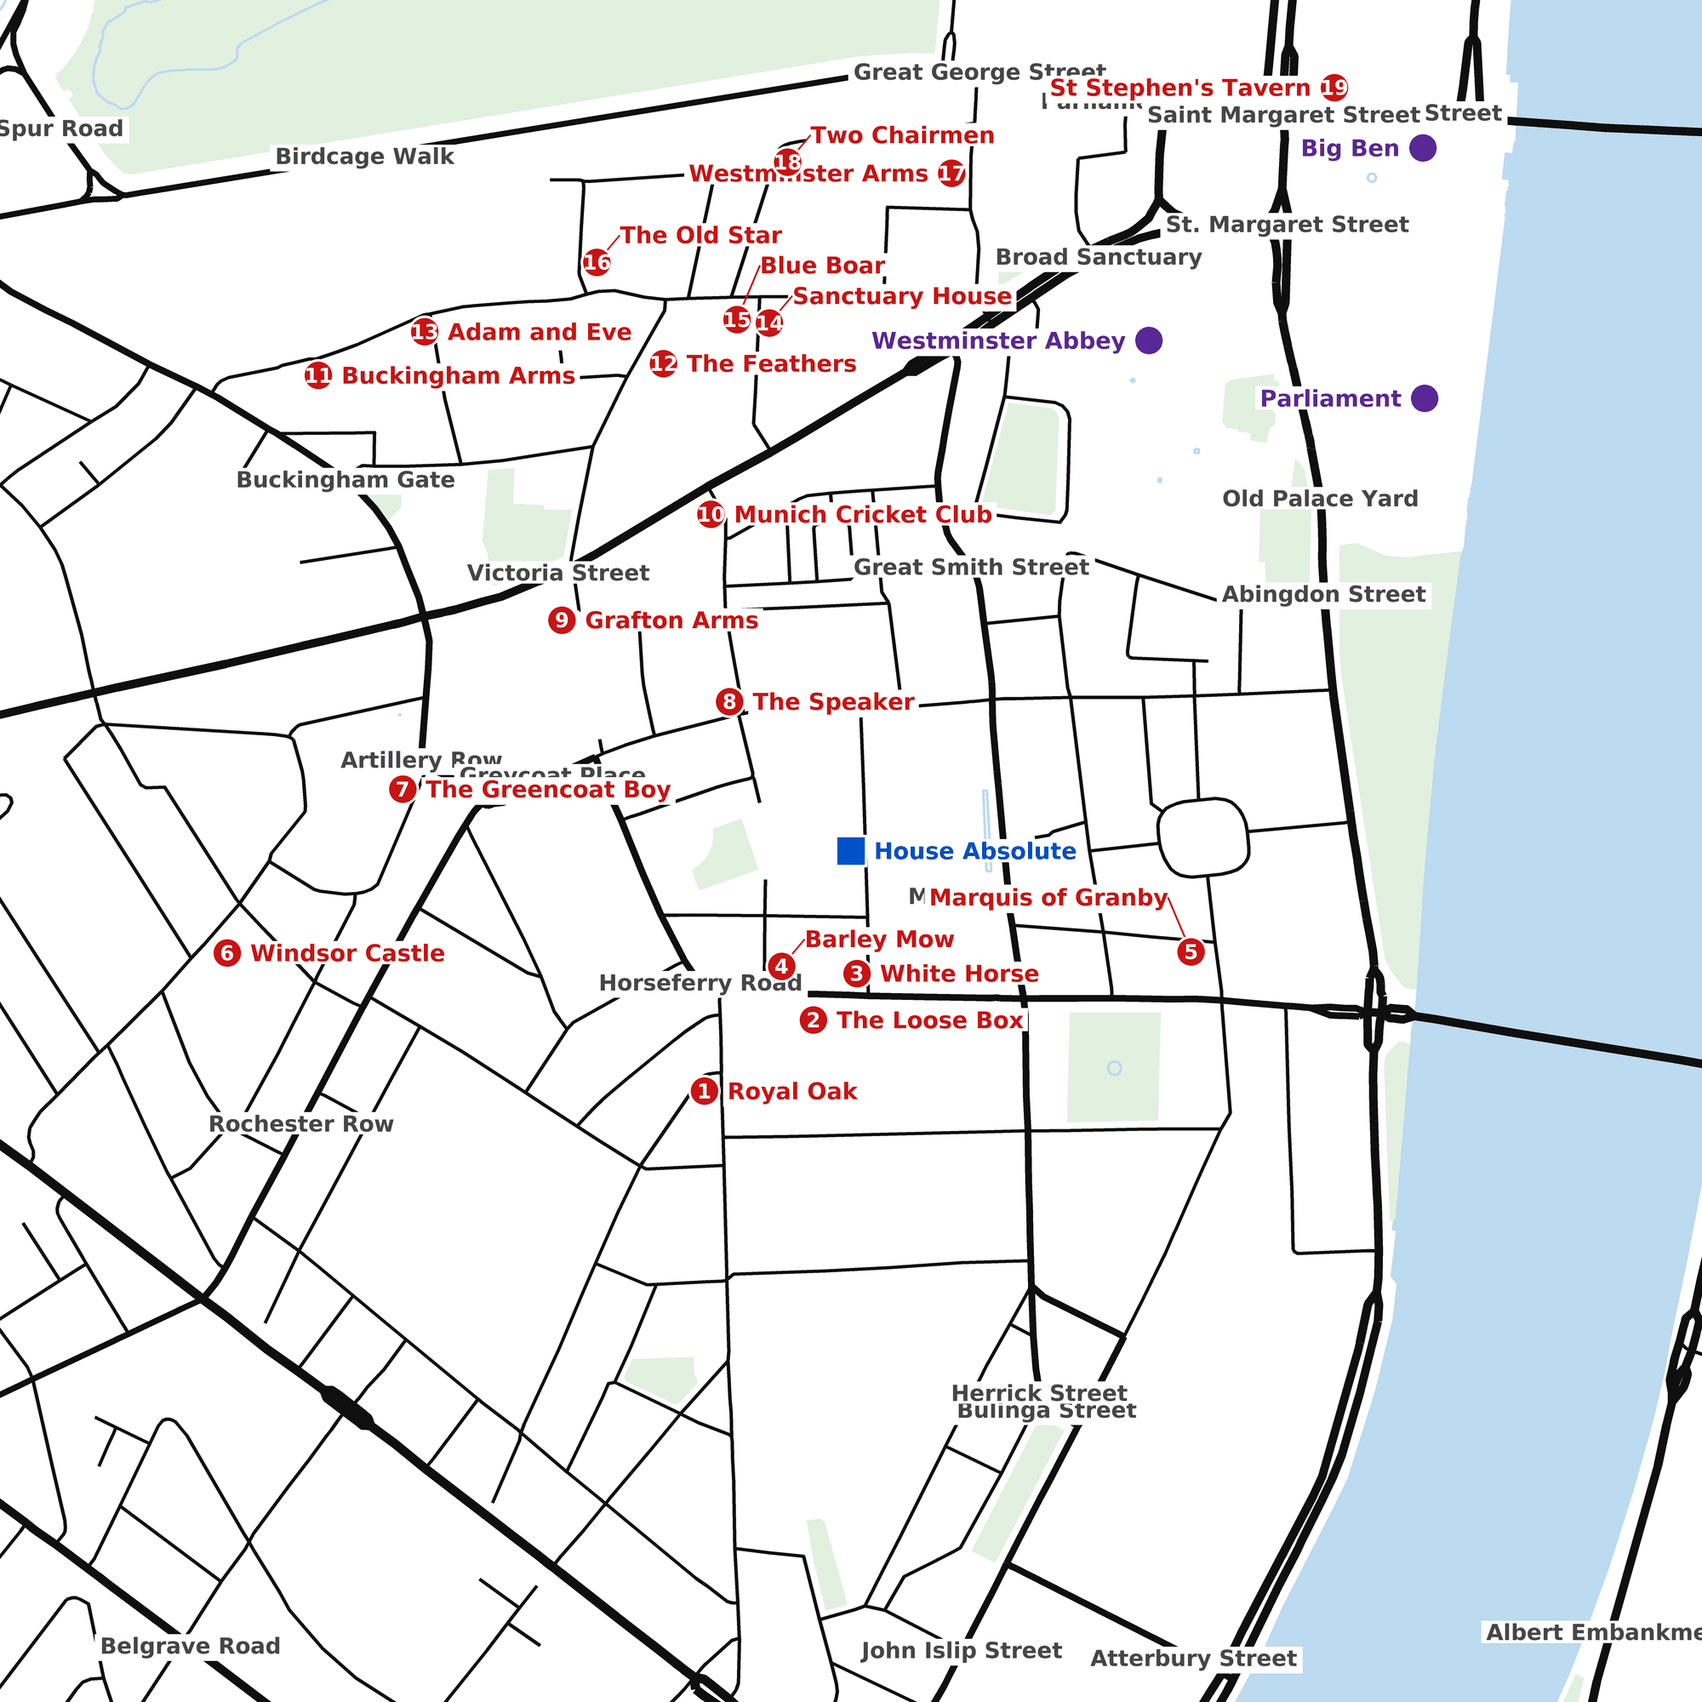
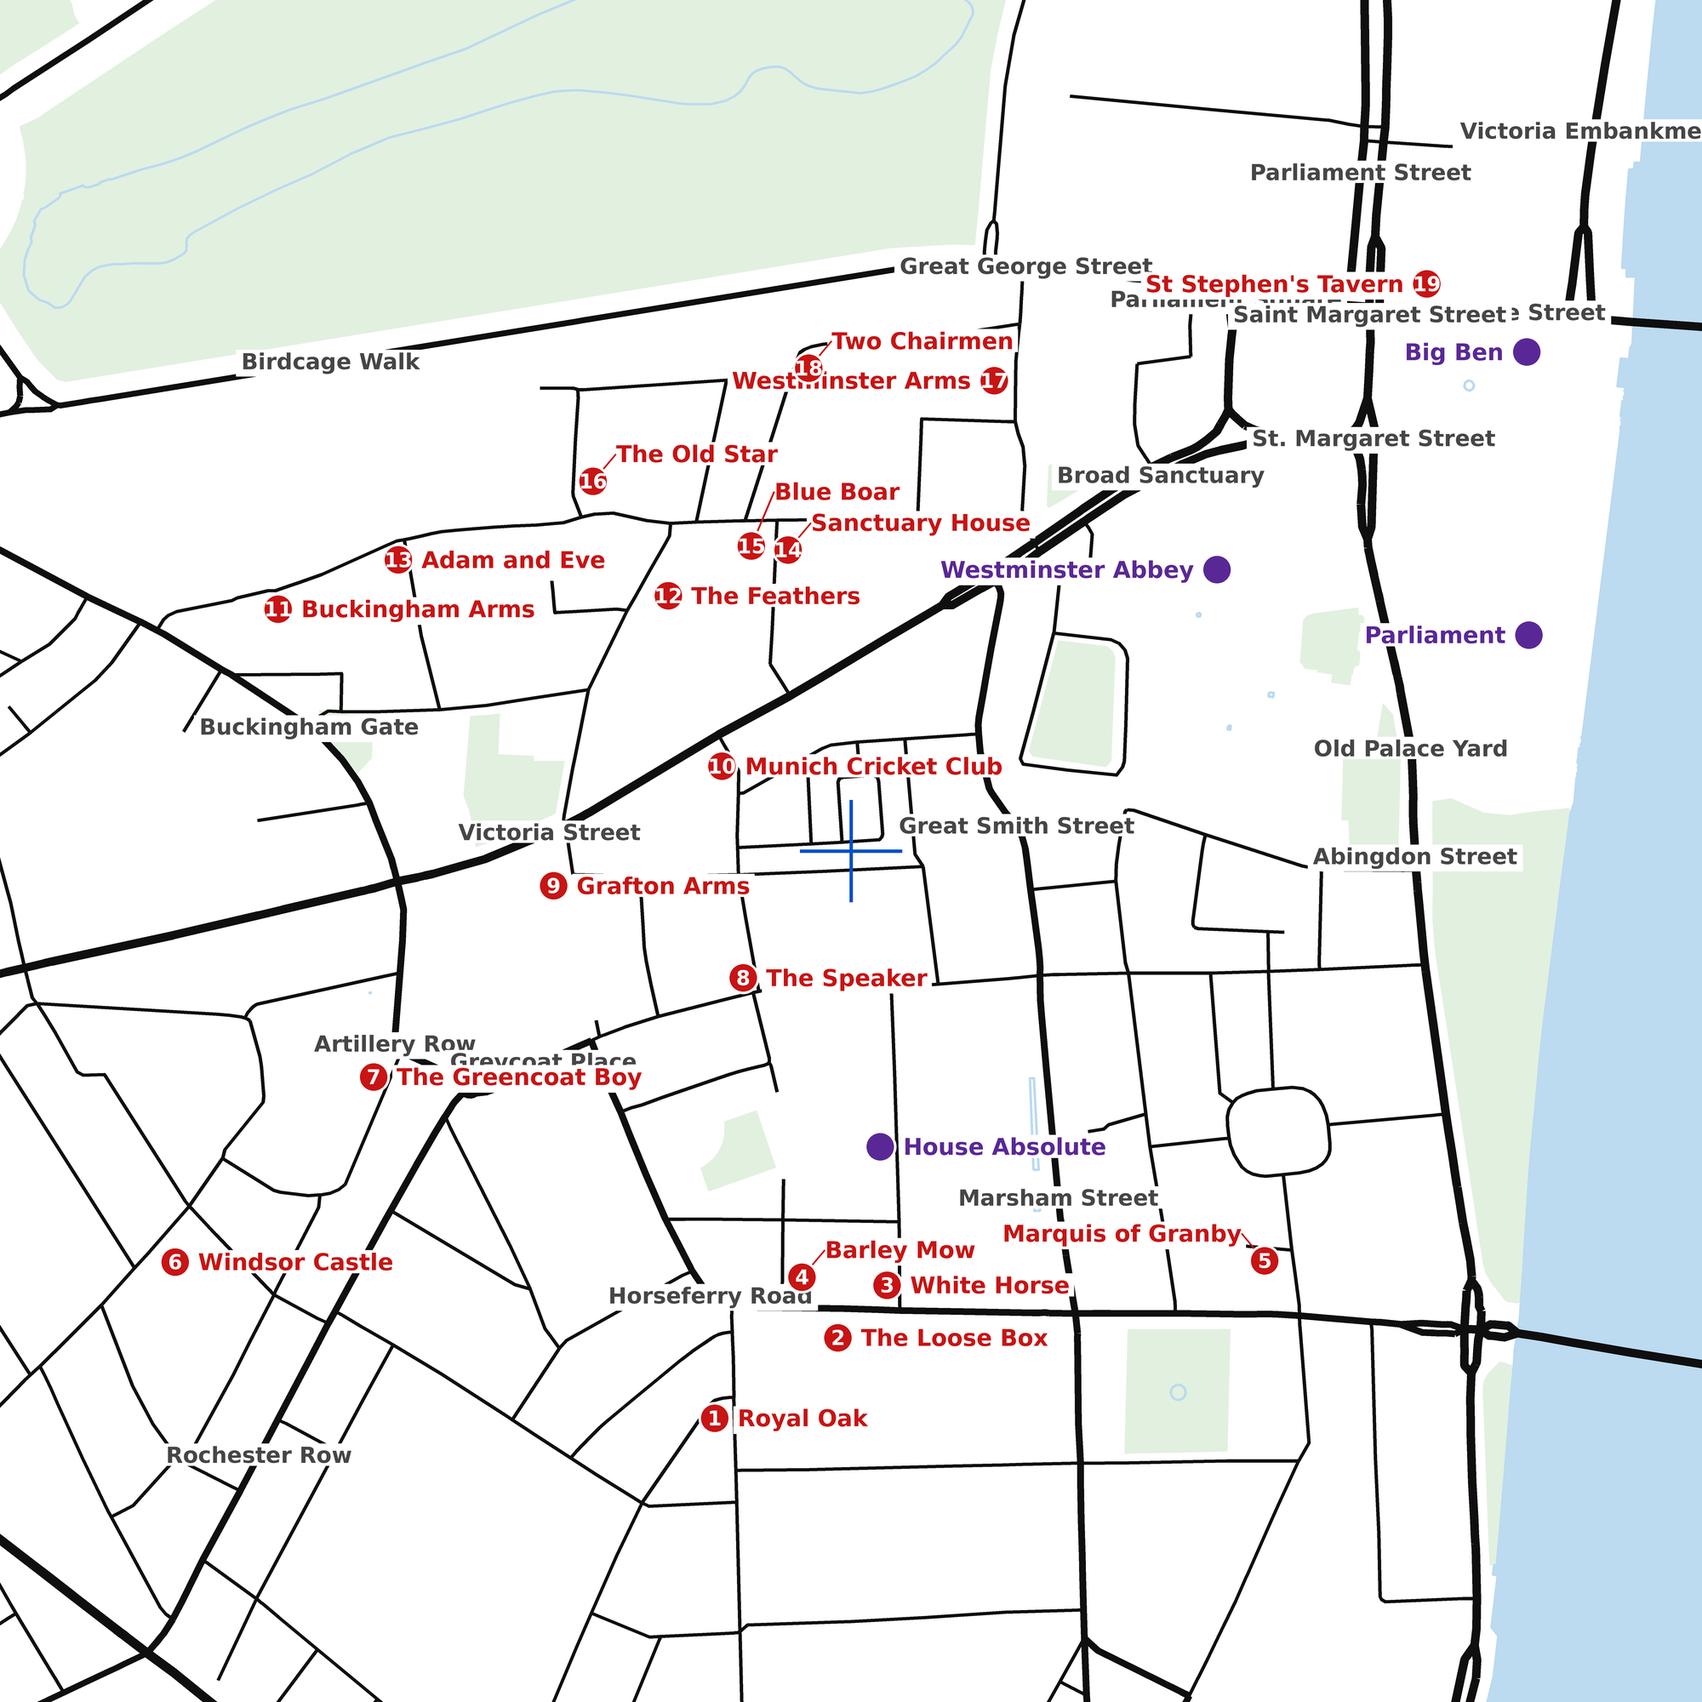
M0.6: size the map crop to the markers instead of pinning it to House Absolute
The Westminster crop was symmetric about House Absolute, so Big Ben at 537 m
north forced a half-span of 650 m and a 1300 x 1300 m map. Nothing actually
needs House Absolute at the centre. Freed, the nineteen pubs, Big Ben,
Parliament, the Abbey and House Absolute all fit within 458 m of their own
bounding-box centre, so 575 m leaves every marker at least 117 m of drawing
room and makes the crop 1150 x 1150 m.

That is a quarter less ground on the same sheet of paper, which is the point
of the redraw: nineteen pubs crammed into the middle of a 1300 m square is
what made the old drawing hard to read. It also lands within 3 m of the
Kingston map's 1153 m, the size this hand-drawn style is tuned for.

Nothing stands at that centre - the nearest pub is 105 m away - so the
builder gains an unlabelled centre. --centre-label "" draws a thin blue
crosshair on the skeleton instead of a marker, and the prompt tells the model
to keep that point centred without drawing or labelling it. meta.json leaves
it out of the markers, since check_venue_map.py would otherwise ring a spot
with nothing under it and make every overlay look like a failure. Venues that
pass a real centre label are unchanged.

backend/venues.py is deliberately untouched: its two reference points ARE the
crop's corners, so they describe the map that is live and must move with the
new image rather than ahead of it. The new pair, and the note that
[…]

diff --git a/.claude/skills/draw-venue-map/scripts/build_venue_map.py b/.claude/skills/draw-venue-map/scripts/build_venue_map.py
@@ -376,7 +376,16 @@ def draw_markers(d, box, size, scale, pubs, landmarks, centre_label, names):
             )
         return x, y
 
-    marker(*box.centre, CENTRE_BLUE, centre_label, square=True)
+    if centre_label:
+        marker(*box.centre, CENTRE_BLUE, centre_label, square=True)
+    else:
+        # Nothing is at the centre; it is only the framing anchor the prompt
+        # tells the model to preserve. Draw it as a crosshair so it cannot be
+        # mistaken for a marker and traced onto the drawing.
+        cx, cy = box.project(*box.centre, size)
+        arm, w = int(60 * scale), max(2, int(4 * scale))
+        d.line([cx - arm, cy, cx + arm, cy], fill=CENTRE_BLUE, width=w)
+        d.line([cx, cy - arm, cx, cy + arm], fill=CENTRE_BLUE, width=w)
     for lm in landmarks:
         marker(lm["lat"], lm["lon"], LANDMARK_PURPLE, lm["name"])
     for i, p in enumerate(pubs, 1):
@@ -555,15 +564,13 @@ merely looks plausible.
   GROUND TRUTH for where things are.
 - `03_road_skeleton.png` - the same area stripped back to the major roads, the
   water, the parks and labelled markers. Red = pubs, purple = landmarks, blue =
-  {centre_label}. **This is the layout to trace.**
+  {centre_legend}. **This is the layout to trace.**
 
 ## Task
 
 Redraw the area shown in `02_osm_accurate.png` and `03_road_skeleton.png` in
 the hand-drawn style of the two Kingston images. Same square extent, same
-framing, north up. Do not crop, rotate, zoom or re-centre: {centre_label} is at
-the exact centre of `03_road_skeleton.png` and must be at the exact centre of
-your output.
+framing, north up. Do not crop, rotate, zoom or re-centre: {centre_anchor}
 
 ## What must be accurate - this matters more than the styling
 
@@ -616,8 +623,8 @@ A single square image, black ink on white, no border or frame, no legend, no
 compass rose, no scale bar.
 
 Before you finish, check your drawing against `03_road_skeleton.png` once
-more: is {centre_label} still at the exact centre, is every pub on the right
-street, and does every road you drew exist in the reference?
+more: {centre_check}, is every pub on the right street, and does every road
+you drew exist in the reference?
 """
 
 
@@ -627,17 +634,40 @@ def write_prompt(path, name, box, pubs, landmarks, centre_label):
         rows.append(f"| {i} | {p['name']} | {p['street'] or 'see the skeleton'} |")
     lm = ""
     if landmarks:
-        lm = (
-            "\n## Also mark\n\n"
-            + "".join(f"- **{x['name']}**\n" for x in landmarks)
-            + f"- **{centre_label}** - at the dead centre of the map.\n"
+        lm = "\n## Also mark\n\n" + "".join(f"- **{x['name']}**\n" for x in landmarks)
+        if centre_label:
+            lm += f"- **{centre_label}** - at the dead centre of the map.\n"
+    if centre_label:
+        centre_legend = centre_label
+        centre_anchor = (
+            f"{centre_label} is at the exact centre of `03_road_skeleton.png` "
+            "and must be at the exact centre of your output."
+        )
+        centre_check = f"is {centre_label} still at the exact centre"
+    else:
+        # Nothing stands at the centre, so the crosshair is the anchor. The
+        # framing still has to survive exactly: the venue's reference points
+        # are the crop's corners, so a drawing that re-centres is unusable
+        # however good it looks.
+        centre_legend = "the centre crosshair"
+        centre_anchor = (
+            "the thin blue crosshair on `03_road_skeleton.png` marks the exact "
+            "centre of the frame, and that same point must fall at the exact "
+            "centre of your output. It is a framing guide, not a place: "
+            "nothing stands there, so do not draw the crosshair and do not "
+            "label it."
+        )
+        centre_check = (
+            "does the point under the blue crosshair still sit at the exact centre"
         )
     title = name.replace("_", " ").replace("-", " ").title()
     open(path, "w").write(
         PROMPT.format(
             title=title,
             title_upper=title.upper(),
-            centre_label=centre_label,
+            centre_legend=centre_legend,
+            centre_anchor=centre_anchor,
+            centre_check=centre_check,
             pub_table="\n".join(rows),
             landmark_block=lm,
         )
@@ -649,7 +679,11 @@ def venue_snippet(name, box, pubs, landmarks, centre_label, width_px):
         out = "".join(c if c.isalnum() else "_" for c in s.upper())
         return "_".join(x for x in out.split("_") if x)
 
-    lines = [f'        "{key(centre_label)}": ' f"({box.centre[0]}, {box.centre[1]}),"]
+    lines = []
+    if centre_label:
+        lines.append(
+            f'        "{key(centre_label)}": ({box.centre[0]}, {box.centre[1]}),'
+        )
     for x in landmarks + pubs:
         lines.append(f'        "{key(x["name"])}": ({x["lat"]}, {x["lon"]}),')
     return f"""{name.upper()} = Venue(
@@ -685,7 +719,10 @@ def main():
     ap.add_argument(
         "--centre-label",
         default="Home",
-        help="what to call the centre point on the map",
+        help="what to call the centre point on the map; pass an empty string "
+        "when the centre is only a framing point and nothing is drawn there, "
+        "which is what lets the crop be sized to fit the markers rather than "
+        "be pinned symmetric about one of them",
     )
     ap.add_argument(
         "--landmark",
@@ -781,7 +818,13 @@ def main():
         centre_label=args.centre_label,
         size_px=OUT_PX,
         bounds=dict(north=box.north, south=box.south, east=box.east, west=box.west),
-        markers=[dict(name=args.centre_label, lat=lat, lon=lon, kind="centre")]
+        markers=(
+            # An unlabelled centre is a framing point, not a marker: there is
+            # nothing drawn there for check_venue_map.py to ring.
+            [dict(name=args.centre_label, lat=lat, lon=lon, kind="centre")]
+            if args.centre_label
+            else []
+        )
         + [dict(kind="landmark", **x) for x in landmarks]
         + [dict(name=p["name"], lat=p["lat"], lon=p["lon"], kind="pub") for p in pubs],
     )

diff --git a/docs/venue_map_westminster/README.md b/docs/venue_map_westminster/README.md
@@ -49,14 +49,45 @@ tracing, and one bad marker condemns the whole drawing — they fail in groups.
   prompt and images gave a scrambled map on one model and a near-exact trace
   on another.
 
+## The crop changed on 17 September
+
+It used to be pinned to House Absolute — the crop symmetric about it, which
+forced 1300 × 1300 m because Big Ben is 537 m north. Nothing actually needs
+House Absolute at the centre, so the crop is now sized to the markers instead:
+the centre is the middle of the nineteen pubs, Big Ben, Parliament, the Abbey
+and House Absolute, and the half-span is the tightest that fits them with room
+to draw.
+
+That makes it **1150 × 1150 m**, a quarter less ground on the same sheet of
+paper, which is the whole point of redrawing — nineteen pubs in the middle of
+a 1300 m square is what made the old one hard to read. It also lands within
+3 m of the Kingston map's 1153 m, the size this style is tuned for. Every
+marker has at least 117 m to the nearest edge; Parliament, Windsor Castle and
+Big Ben are the three closest to one.
+
+House Absolute is now an ordinary landmark. **Nothing stands at the centre**
+(the nearest pub is 105 m away), so the skeleton carries a thin blue crosshair
+there instead of a marker, and the prompt tells the model to keep that point
+centred without drawing or labelling it.
+
 ## What must not move
 
-The framing. House Absolute at the exact centre, 1300 × 1300 m square, north
-up. The venue's two reference points in `backend/venues.py` *are* this crop's
-corners (51.501752, −0.140302 and 51.489995, −0.121544), so a drawing that
-keeps the framing drops straight in with no georeferencing work, and one that
-does not is unusable however pretty it is. If the returned image is not
-square, the framing changed: re-roll.
+The framing. 1150 × 1150 m square, north up, the crosshair's point at dead
+centre. A drawing that re-crops is unusable however pretty it is, and if what
+comes back is not square the framing changed: re-roll.
+
+**The venue's reference points move with the image, not before it.** They
+*are* this crop's corners, so `backend/venues.py` needs these the moment the
+new drawing is wired in — and must keep the old ones until then, because they
+describe the map that is live:
+
+```python
+ref_1=MapReferencePoint(x=0, y=0, lat=51.502881, long=-0.139506),
+ref_2=MapReferencePoint(x=W, y=H, lat=51.492481, long=-0.122912),
+```
+
+(was 51.501752, −0.140302 and 51.489995, −0.121544.) `corner_width_km` wants a
+look too: 0.2 was chosen for 1300 m across 1024 px, and both numbers change.
 
 ## The files
 
@@ -70,6 +101,10 @@ square, the framing changed: re-roll.
 The pubs were passed to the builder by hand rather than searched for on
 OpenStreetMap, because the nineteen are Charles's choice and a nearest-N
 search returns a different set. That is what `--pub` is for.
+
+`check_venue_map.py` rings the 23 markers and not the centre — there is
+nothing drawn under the crosshair, so a ring there would look like a failure
+on every overlay.
 
 The `Venue` snippet `build.sh` prints at the end is **not** to be pasted over
 `backend/venues.py`: the names here are how people say them, so the keys it

diff --git a/.claude/skills/draw-venue-map/SKILL.md b/.claude/skills/draw-venue-map/SKILL.md
@@ -32,21 +32,43 @@ The output is a georeferenced image plus a `Venue` for `backend/venues.py`.
 
 ## Sizing the play area
 
-Three constraints usually pin the size down, and it is worth showing the user
-that rather than asking them to pick a number:
+The map is always a square, symmetric about its centre, so the size follows
+from where the centre is. **Ask first whether the centre has to be a place at
+all** — that is the choice that decides how much paper the drawing gets, and
+it is easy to miss:
 
-- the centre is at the middle of the map,
-- the map is symmetric about it,
-- some landmark must be in frame.
+- **Pinned to a place.** Some landmark sits at the dead centre. Then a marker
+  *d* metres away forces a half-span of at least *d*, plus enough margin to
+  draw it in — about 100 m.
+- **Sized to the markers.** Nothing is pinned, so the centre is the middle of
+  the markers' bounding box and the half-span is the tightest that fits them.
 
-A landmark *d* metres from the centre therefore forces a half-span of at least
-*d*, plus enough margin to draw it in — about 100 m. For Westminster, Big Ben
-is 537 m north of the house, so 650 m was the smallest half-span that worked,
-giving 1300 × 1300 m. The Kingston map covers 1153 × 1116 m, which is a good
-sanity check: much bigger and the drawing gets too sparse to navigate by.
+Westminster shows the difference. Pinned to House Absolute, Big Ben 537 m
+north forced 650 m, giving 1300 × 1300 m. Freed, the same nineteen pubs and
+four landmarks fit inside 458 m of their own centre, and 575 m — 1150 × 1150 m
+— leaves every one of them at least 117 m of drawing room. That is a quarter
+less ground for the same sheet of paper.
 
+The Kingston map covers 1153 × 1116 m, which is a good sanity check either
+way: much bigger and the drawing gets too sparse to navigate by.
+
+Put the arithmetic in front of the user rather than asking them for a number.
 `build_venue_map.py` refuses a landmark outside the crop and tells you the
 minimum half-span it needs.
+
+### A centre with nothing on it
+
+Pass `--centre-label ""` when the centre is only a framing point. The skeleton
+then gets a thin blue crosshair there instead of a labelled marker, the prompt
+tells the model to keep that point at the centre *without drawing or labelling
+it*, and `meta.json` leaves it out of the markers — otherwise
+`check_venue_map.py` rings a spot with nothing under it and every overlay
+looks like a failure.
+
+The framing still matters exactly as much: the venue's reference points are
+the crop's corners, so a drawing that re-crops is unusable however good it
+looks. Freeing the centre changes which corners those are, so `ref_1` and
+`ref_2` in `backend/venues.py` move with the image, not before it.
 
 ## Building the references
 

diff --git a/docs/venue_map_westminster/prompt.md b/docs/venue_map_westminster/prompt.md
@@ -16,15 +16,13 @@ merely looks plausible.
   GROUND TRUTH for where things are.
 - `03_road_skeleton.png` - the same area stripped back to the major roads, the
   water, the parks and labelled markers. Red = pubs, purple = landmarks, blue =
-  House Absolute. **This is the layout to trace.**
+  the centre crosshair. **This is the layout to trace.**
 
 ## Task
 
 Redraw the area shown in `02_osm_accurate.png` and `03_road_skeleton.png` in
 the hand-drawn style of the two Kingston images. Same square extent, same
-framing, north up. Do not crop, rotate, zoom or re-centre: House Absolute is at
-the exact centre of `03_road_skeleton.png` and must be at the exact centre of
-your output.
+framing, north up. Do not crop, rotate, zoom or re-centre: the thin blue crosshair on `03_road_skeleton.png` marks the exact centre of the frame, and that same point must fall at the exact centre of your output. It is a framing guide, not a place: nothing stands there, so do not draw the crosshair and do not label it.
 
 ## What must be accurate - this matters more than the styling
 
@@ -93,10 +91,10 @@ Cross-check every one against `03_road_skeleton.png`.
 
 ## Also mark
 
+- **House Absolute**
 - **Big Ben**
 - **Westminster Abbey**
 - **Parliament**
-- **House Absolute** - at the dead centre of the map.
 
 ## Output
 
@@ -104,5 +102,5 @@ A single square image, black ink on white, no border or frame, no legend, no
 compass rose, no scale bar.
 
 Before you finish, check your drawing against `03_road_skeleton.png` once
-more: is House Absolute still at the exact centre, is every pub on the right
-street, and does every road you drew exist in the reference?
+more: does the point under the blue crosshair still sit at the exact centre, is every pub on the right street, and does every road
+you drew exist in the reference?

diff --git a/docs/saturday_milestones_2026-09-19.md b/docs/saturday_milestones_2026-09-19.md
@@ -367,6 +367,17 @@ drawing comes back. The pubs were passed to the builder by hand
 (`build.sh`, the new `--pub` flag) rather than searched for, so the skeleton
 marks Charles's nineteen and not the nineteen nearest. Both known label
 errors come out right on the new skeleton, so the trace gets them for free.
+**Re-cropped 17 Sept at Charles's request.** The crop was pinned to House
+Absolute, which forced 1300 x 1300 m because Big Ben is 537 m north of it.
+Nothing needs it centred, so the crop is now sized to the markers: centre at
+the middle of the nineteen pubs and four landmarks, half-span 575 m, giving
+1150 x 1150 m - a quarter less ground on the same paper, and within 3 m of
+Kingston's 1153 m. House Absolute becomes an ordinary landmark and the centre
+is an unlabelled crosshair (`--centre-label ""`, new in the skill's builder).
+**`backend/venues.py`'s reference points move with the image**: 51.502881,
+-0.139506 and 51.492481, -0.122912, to be applied only when the drawing lands,
+along with a fresh look at `corner_width_km`.
+
 **Outstanding: run `prompt.md` at Gemini and hand back the image.**
 
 ### M0.7 — A printable map poster *(status: shipped 17 Sept, PR #272; held from printing until M0.6's redrawn map lands)*
